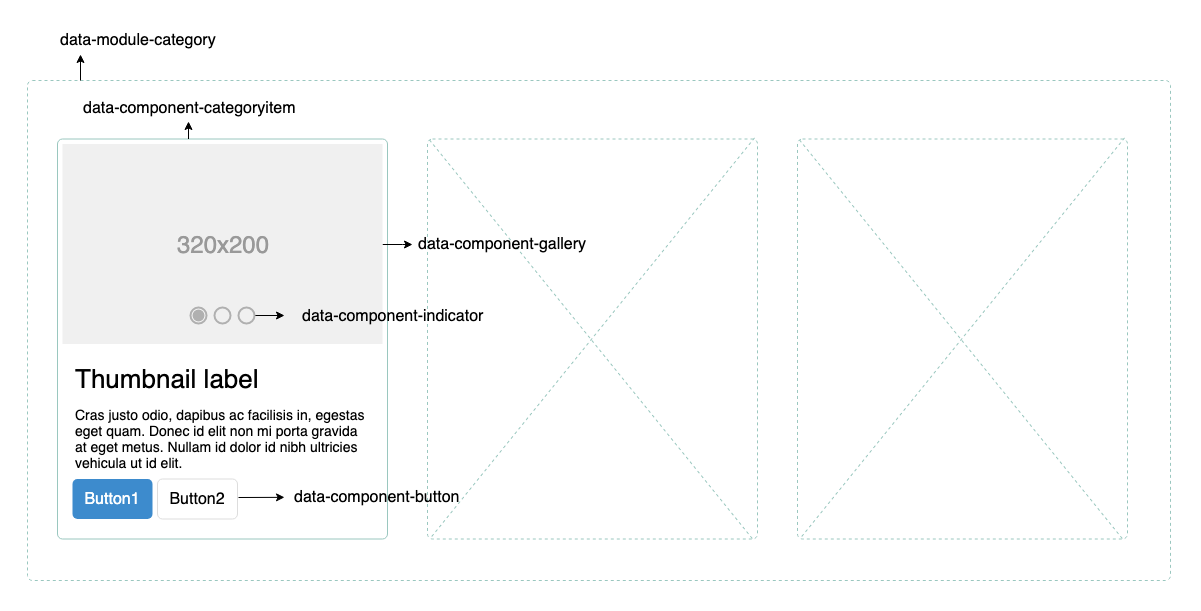
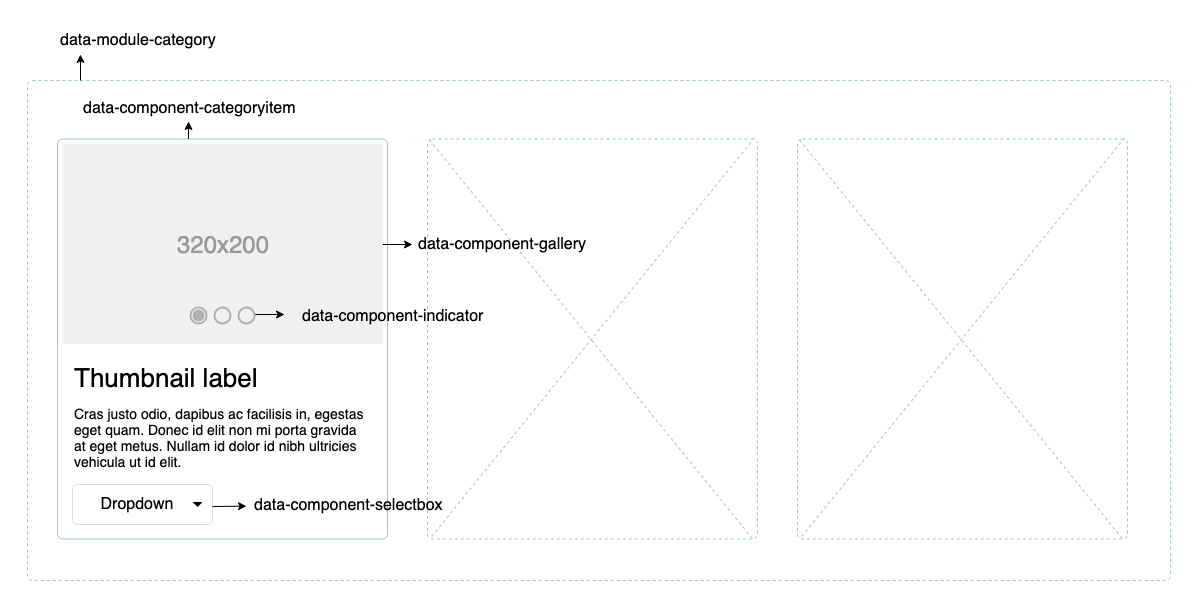
diagram추가

Changed region(s): [[0.0616, 0.5908, 0.4005, 0.8707]]

diff --git a/dist/components.html b/dist/components.html
@@ -19,8 +19,8 @@
 
 	<style type="text/css">
 		.postcodify{position:relative;}
-		.postcodify .input-group {z-index:100;}
-		.postcodelist{display:none; position:absolute; width:calc( 100% - 1px ); top:29px; left:0;}
+		.postcodify .input-group {z-index:200;}
+		.postcodelist{display:none; position:absolute; width:calc( 100% - 1px ); top:29px; left:0; z-index:100;}
 		.postcodelist.active{display:block;}
 
 		.gallery-container {position:relative;}
@@ -94,7 +94,7 @@
 						<p>Cras justo odio, dapibus ac facilisis in, egestas eget quam. Donec id elit non mi porta gravida at eget metus. Nullam id dolor id nibh ultricies vehicula ut id elit.</p>
 						<div class="select-container" data-component-selectbox="">
 							<select>
-								<option value="">type</option>
+								<option value="">Dropdown</option>
 								<option value="addcart">장바구니 담기</option>
 								<option value="direct">바로구매</option>
 							</select>

diff --git a/README.md b/README.md
@@ -13,7 +13,6 @@
 ![Alt text](/diagram/search_diagram.png "search component")
 
 ### 3.구조
-Typescript로 개발되어 
 
 #### core
 core는 어플리케이션에서 모듈과 컴포넌트의 생명주기를 관할하고 흔히 쓰일수 있는 여러가지 Utils을 제공합니다. location.href 값을 key, value로 변환해서 반환해주거나, form요소 및 container요소 내에 있는 input요소들을 serialize하는 기능도 포함되어 있습니다. 그중에 가장 중요한 기능중에 하나로 페이지 로드가 완료되었을떄 body태그의 innerHtml를 가져와 data-module-* 과 data-component-*를 찾아 *에 해당하는 스크립트 파일을 동적로딩(systemJs)합니다. 그리곤 context를 주입하고 정의된 기능을 실행합니다.
@@ -39,7 +38,7 @@ public componentDidMount(...args:any[]){
     ...
 }
 ```
-위 이미지에 표현했듯이 `data-module-category`는 [data-component-categoryItem]을 가지고 있고 `data-component-categoryItem`은 [data-component-gallery, data-component-button]을 가지고 있습니다. 그리고 나머지 `data-component-indicator`는 `data-component-gallery`에 귀속됩니다. 여기서 중요한점은 자신의 context 내에서 컴포넌트를 찾습니다.
+위 이미지에 표현했듯이 `data-module-category`는 [data-component-categoryItem]을 가지고 있고 `data-component-categoryItem`은 [data-component-gallery, data-component-selectbox]을 가지고 있습니다. 그리고 나머지 `data-component-indicator`는 `data-component-gallery`에 귀속됩니다. 여기서 중요한점은 자신의 context 내에서 컴포넌트만 찾는다는 점입니다.
 ```
 <div class="row" data-module-category>
     <div class="col-sm-6 col-md-4">
@@ -56,26 +55,60 @@ public componentDidMount(...args:any[]){
             <div class="caption">
                 <h3>Thumbnail label</h3>
                 <p>...</p>
-                <p>
-                    <a href="#" class="btn btn-primary" role="button">Button</a>
-                    <a href="#" class="btn btn-default" role="button">Button</a>
-                </p>
+                <div class="select-container" data-component-selectbox="">
+                    <select>
+                        <option value="">Dropdown</option>
+                        <option value="addcart">장바구니 담기</option>
+                        <option value="direct">바로구매</option>
+                    </select>
+                </div>
             </div>
         </div>
     </div>
 </div>
 ```
 
-### 6.모듈(상위컴포넌트)과 컴포넌트의 이벤트흐름
-모듈과 컴포넌트는 상호유기적인 체계로 설계되어 있습니다. 모듈은 컴포넌트에 데이터를 주기도하고 컴포넌트에서 받은 이벤트를 다른 컴포넌트에 전달하는 역할도 합니다. 즉 모듈은 자신에 위치하에 있는 컴포넌트의 생명주기를 관리합니다. 그렇다면 데이터와 이벤트의 흐름을 어떻게 전달하고 전달받는지 아래의 예제를 통해 설명을 하겠습니다.
+### 6.모듈(상위컴포넌트)과 컴포넌트의 데이터 및 이벤트흐름
+모듈과 컴포넌트는 데이터와 이벤트관계로 설계되어 있습니다. 모듈은 컴포넌트에 데이터를 주기도하고 컴포넌트에서 받은 이벤트를 다른 컴포넌트에 전달하는 역할도 합니다. 즉 모듈은 자신에 위치하에 있는 컴포넌트의 생명주기를 관리합니다. 컴포넌트는 모듈에서 데이터를 받아 화면을 구성하기도하며 모듈에게 자신의 이벤트를 보낼 수도 있습니다. 그렇다면 데이터와 이벤트의 흐름을 어떻게 전달하고 전달받는지 아래의 예제를 통해 설명을 하겠습니다.
+![Alt text](/diagram/event-cycle.png "event cycle");
 ```javascript
-
+export default class Component extends Sandbox {
+    public addEvent(type:string, handler:Function):void
+    public fireEvent(type:string, target:EventTarget|null, params?:any):void
+} 
 ```
+모든 컴포넌트는 Component를 상속하고 있습니다. Component에는 addEvent와 fireEvent method가 정의되어 있습니다. addEvent는 수신부 fireEvent는 송신부로 설계되어 있습니다. 
+```javascript
+//Gallery Component
+export default class Gallery extends Component {
+	...
+	componentDidMount(...components:any[]){
+        const _this = this;
+	    const [indicator] = components;
+
+        // 'selected' 라는 사용자정의 이벤트를 구독하는 부분
+		indicator.addEvent('selected', function(this:HTMLElement, args:IIndicatorSelectedEvent){
+            //받은 args.index값을 가지고 다른 컴포넌트의 상태를 변경 로직
+        });
+    }
+...
+
+//Indicator Component
+export default class Indicator extends Component{
+    ...
+    componentDidMount(){
+        ...
+        // 'selected'로 {index:number}값을 포함하여 이벤트를 보낸다.
+        _this.fireEvent('selected', this.$el, {index:index});
+        ...
+    }
+...
+```
+
 
 
 ### 6.모듈 및 컴포넌트의 확장
 수량선택 기능이 있는 `data-component-quantity-selectbox`입니다. 이 컴포넌트는 `data-component-quantity`를 상속하고 있습니다. 여기서 중요한 포인트는 componentDidMount에서 해당 dom객체에 이벤트 및 데이터를 주입하고 있는데 Vue의 생명주기에서 mounted와 같은 상태입니다. 따라서 기본적인 컴포넌트를 `data-component-quantity`개발하고 selectbox형태로 개발시 componentDidMount를 override하여 확장하도록 설계하였습니다.
-
 ```javascript
 import Quantity from "./quantity";
 
